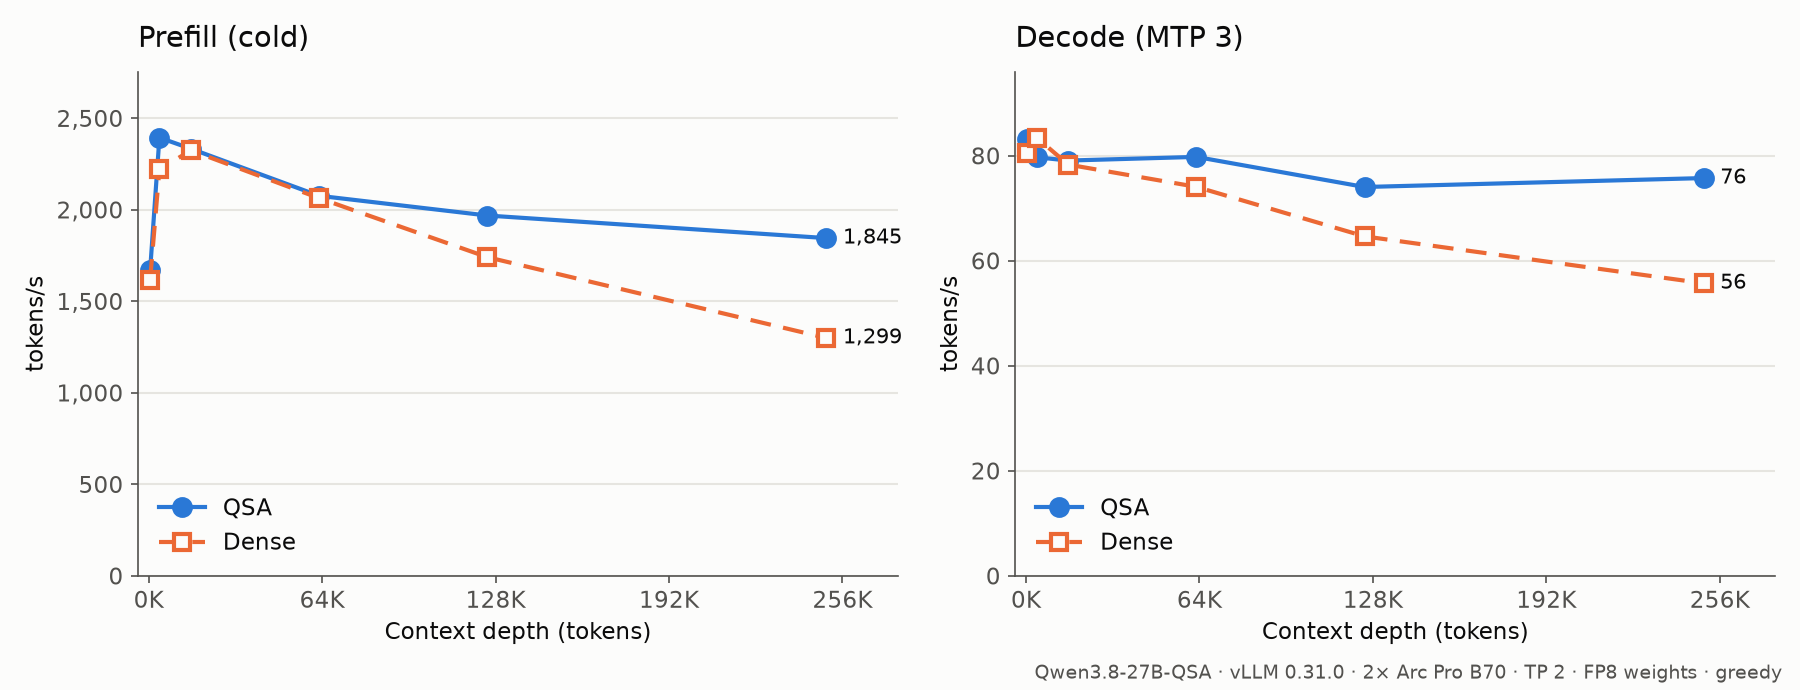
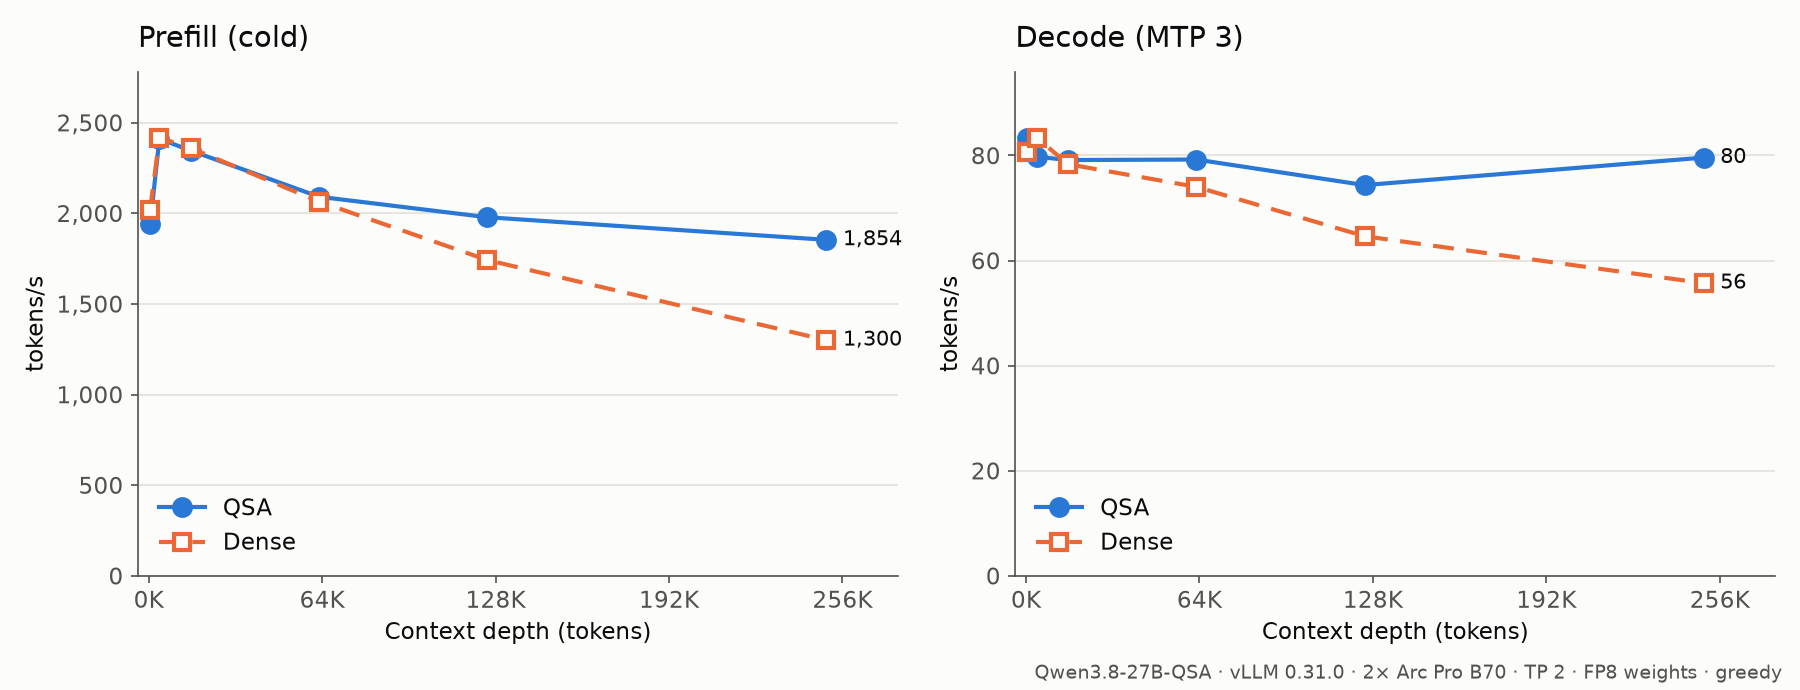
Re-measure QSA and dense in one sweep on the current code
Both runs on 2832413 (radix top-k, dense below 32K, FP8 draft head), every
length warmed once before it is measured: the first request at a new
length paid ~12% at 4K for kernel compiles, which the last table mixed
into some rows. bench/sweep.sh now warms every length too.

At 256K: prefill 1,854 vs 1,300 tok/s (1.43x), decode 79.6 vs 55.7
(1.43x). Tool calls 36/36, needle 3/3 from 6K to 230K.

diff --git a/README.md b/README.md
@@ -17,14 +17,14 @@ Throughput in tokens/s:
 
 | Context | Prefill, QSA | Prefill, dense | Decode, QSA | Decode, dense |
 |--------:|-------------:|---------------:|------------:|--------------:|
-| 0.5K | 1,669 | 1,617 | 83.3 | 80.6 |
-| 4K | 2,394 | 2,221 | 79.7 | 83.4 |
-| 16K | 2,333 | 2,324 | 79.1 | 78.3 |
-| 64K | 2,076 | 2,064 | **79.8** | 74.1 |
-| 128K | **1,969** | 1,741 | **74.0** | 64.6 |
-| 256K | **1,845** | 1,299 | **75.7** | 55.7 |
+| 0.5K | 1,938 | 2,019 | 83.3 | 80.6 |
+| 4K | 2,411 | 2,418 | 79.8 | 83.4 |
+| 16K | 2,345 | 2,360 | 79.1 | 78.3 |
+| 64K | 2,091 | 2,065 | **79.2** | 74.0 |
+| 128K | **1,978** | 1,742 | **74.4** | 64.6 |
+| 256K | **1,854** | 1,300 | **79.6** | 55.7 |
 
-At 256K, QSA prefills 1.42× and decodes 1.36× as fast as dense. Up to 32K both attend densely, and
+At 256K, QSA prefills 1.43× and decodes 1.43× as fast as dense. Up to 32K both attend densely, and
 the two runs are within a few percent of each other. The QSA numbers were measured with indexers
 fine-tuned locally on long agent traces (not published yet); the release's indexers run at the same
 speed but accept fewer MTP tokens at long context.
@@ -37,7 +37,8 @@ The two runs differ only in attention. Both use the same vLLM build and the same
 - greedy decoding.
 
 Dense loads the release as plain Qwen3.5, so its indexers are ignored. The prompts are vLLM's source
-code. Prefill is measured cold, as prompt tokens per second until the first token. Raw results are in
+code. Prefill is measured without prefix-cache hits, after one warm-up request at each length, as
+prompt tokens per second until the first token. Raw results are in
 [`docs/results`](docs/results).
 
 A needle test (three passphrases at 15%, 50% and 85% of the context) found 3 of 3 from 6K to 230K.
